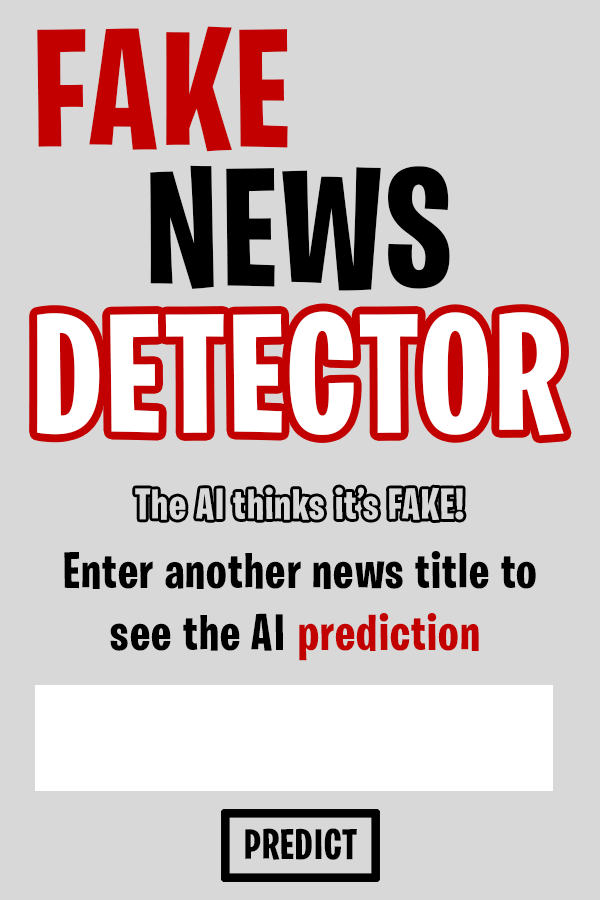
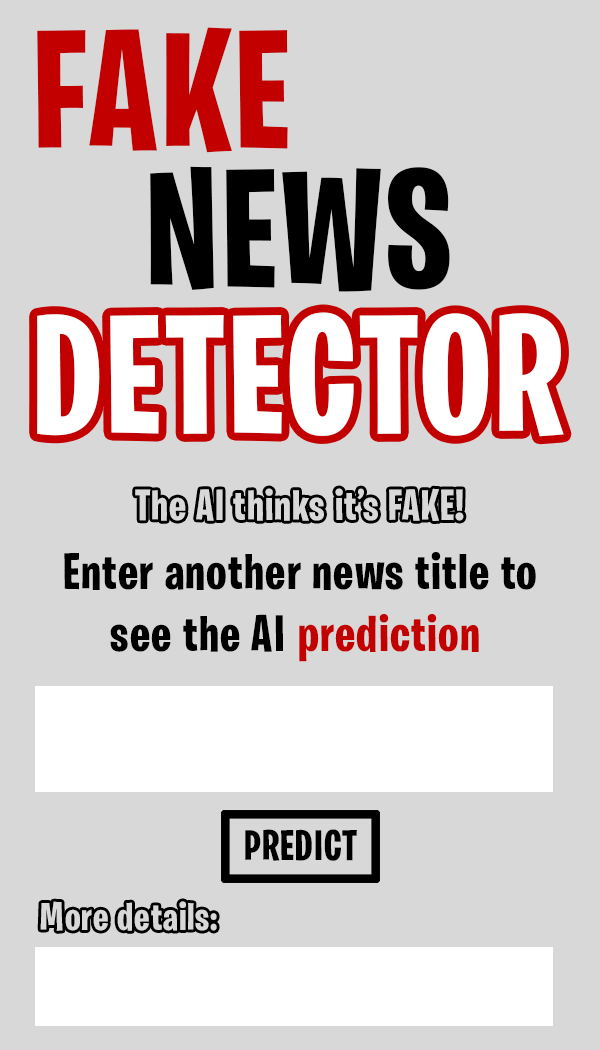
Now the GUI return output of more details when making a guess, to make this, the guess() fundtion now return the output as string instead of printing it.  As well as a new function show_text_on_box() to show a given text in the output box.  The wait_text_input() function updated to use the output bo

diff --git a/FakeNewsDetector.py b/FakeNewsDetector.py
@@ -207,17 +207,15 @@ def show_cf(cf):
 
 def guess(title, model, dic):
     if len(title.split(" ")) < 4:
-        print("Title is too short.")
-        return False
+        return False, "Title is too short."
     processed_title = process_title(title, dic)
     if processed_title.getnnz() < 4:
-        print("Not enough known words in the title to make a prediction.")
-        return False
+        return False, "Not enough known words in the title to make a prediction."
     prediction = model.predict(processed_title)
     if int(prediction[0]) == 1:
-        return True, "%.2f" % (model.predict_proba(processed_title)[0][1]*100)
+        return True, "The prediction propability is " + "%.2f" % (model.predict_proba(processed_title)[0][1]*100)
     else:
-        return False, "%.2f" % (model.predict_proba(processed_title)[0][0]*100)
+        return False, "The prediction propability is " + "%.2f" % (model.predict_proba(processed_title)[0][0]*100)
 
 
 def check_quit(event):
@@ -238,7 +236,7 @@ def wait_yes_no():
                         return False
 
 
-def wait_text_input(screen, yt, yb, font_size, img):
+def wait_text_input(screen, yt, yb, font_size, img, text_box):
     input_box = pygame.Rect(40, yt, 505, 90)
     color_inactive = (0, 0, 0)
     color_active = (194, 0, 0)
@@ -278,6 +276,7 @@ def wait_text_input(screen, yt, yb, font_size, img):
 
         # Render the current text.
         gh.set_screen(screen, img)
+        show_text_on_box(screen, text_box, font_size)
         txt_surface = font.render(text, True, color)
         if txt_surface.get_width() + 25 > 505:
             multiline.append(text)
@@ -295,6 +294,33 @@ def wait_text_input(screen, yt, yb, font_size, img):
 
         pygame.draw.rect(screen, color, input_box, 2)
         pygame.display.flip()
+
+
+def show_text_on_box(screen, out, font_size):
+    if out == "":
+        return
+    multiline = []
+    text = ''
+    input_box = pygame.Rect(40, 950, 505, 75)
+    font = pygame.font.Font(None, font_size)
+    for i in out.split():
+        text += i + " "
+        txt_surface = font.render(text, True, (0, 0, 0))
+        if txt_surface.get_width() + 25 > 505:
+            multiline.append(" ".join(text.split()[:-1]))
+            text = text.split()[-1] + " "
+    if multiline:
+        line = 0
+        multiline.append(text)
+        for i in multiline:
+            txt_surface = font.render(i, True, (0, 0, 0))
+            screen.blit(txt_surface, (input_box.x + 5, input_box.y + 5 + line * 25))
+            line += 1
+    else:
+        txt_surface = font.render(out, True, (0, 0, 0))
+        screen.blit(txt_surface, (input_box.x + 5, input_box.y + 5))
+
+    pygame.display.flip()
 
 
 def start_program():
@@ -328,18 +354,18 @@ def start_program():
         show_cf(cf)
 
     gh.set_screen(screen, 4)
-    title = wait_text_input(screen, 655, 790, 35, 4)
+    title = wait_text_input(screen, 655, 790, 35, 4, "")
     print(title)
     while title != "0":
-        predict = guess(title, model, dic)
+        predict, output = guess(title, model, dic)
         print(predict)
         if predict:
             gh.set_screen(screen, 6)
-            title = wait_text_input(screen, 693, 810, 35, 6)
+            title = wait_text_input(screen, 693, 810, 35, 6, output)
             print(title)
         else:
             gh.set_screen(screen, 5)
-            title = wait_text_input(screen, 693, 810, 35, 5)
+            title = wait_text_input(screen, 693, 810, 35, 5, output)
             print(title)
 
 

diff --git a/Graphic_Handler.py b/Graphic_Handler.py
@@ -31,6 +31,9 @@ def set_screen(screen, img):
                     7: EMPTY,
 
             }.get(img, EMPTY)
+    if img == 5 or img == 6:
+        if pygame.display.get_surface().get_size()[1] != 1050:
+            screen = pygame.display.set_mode((600, 1050))
     screen.blit(chooser, (0, 0))
     pygame.display.flip()
 
